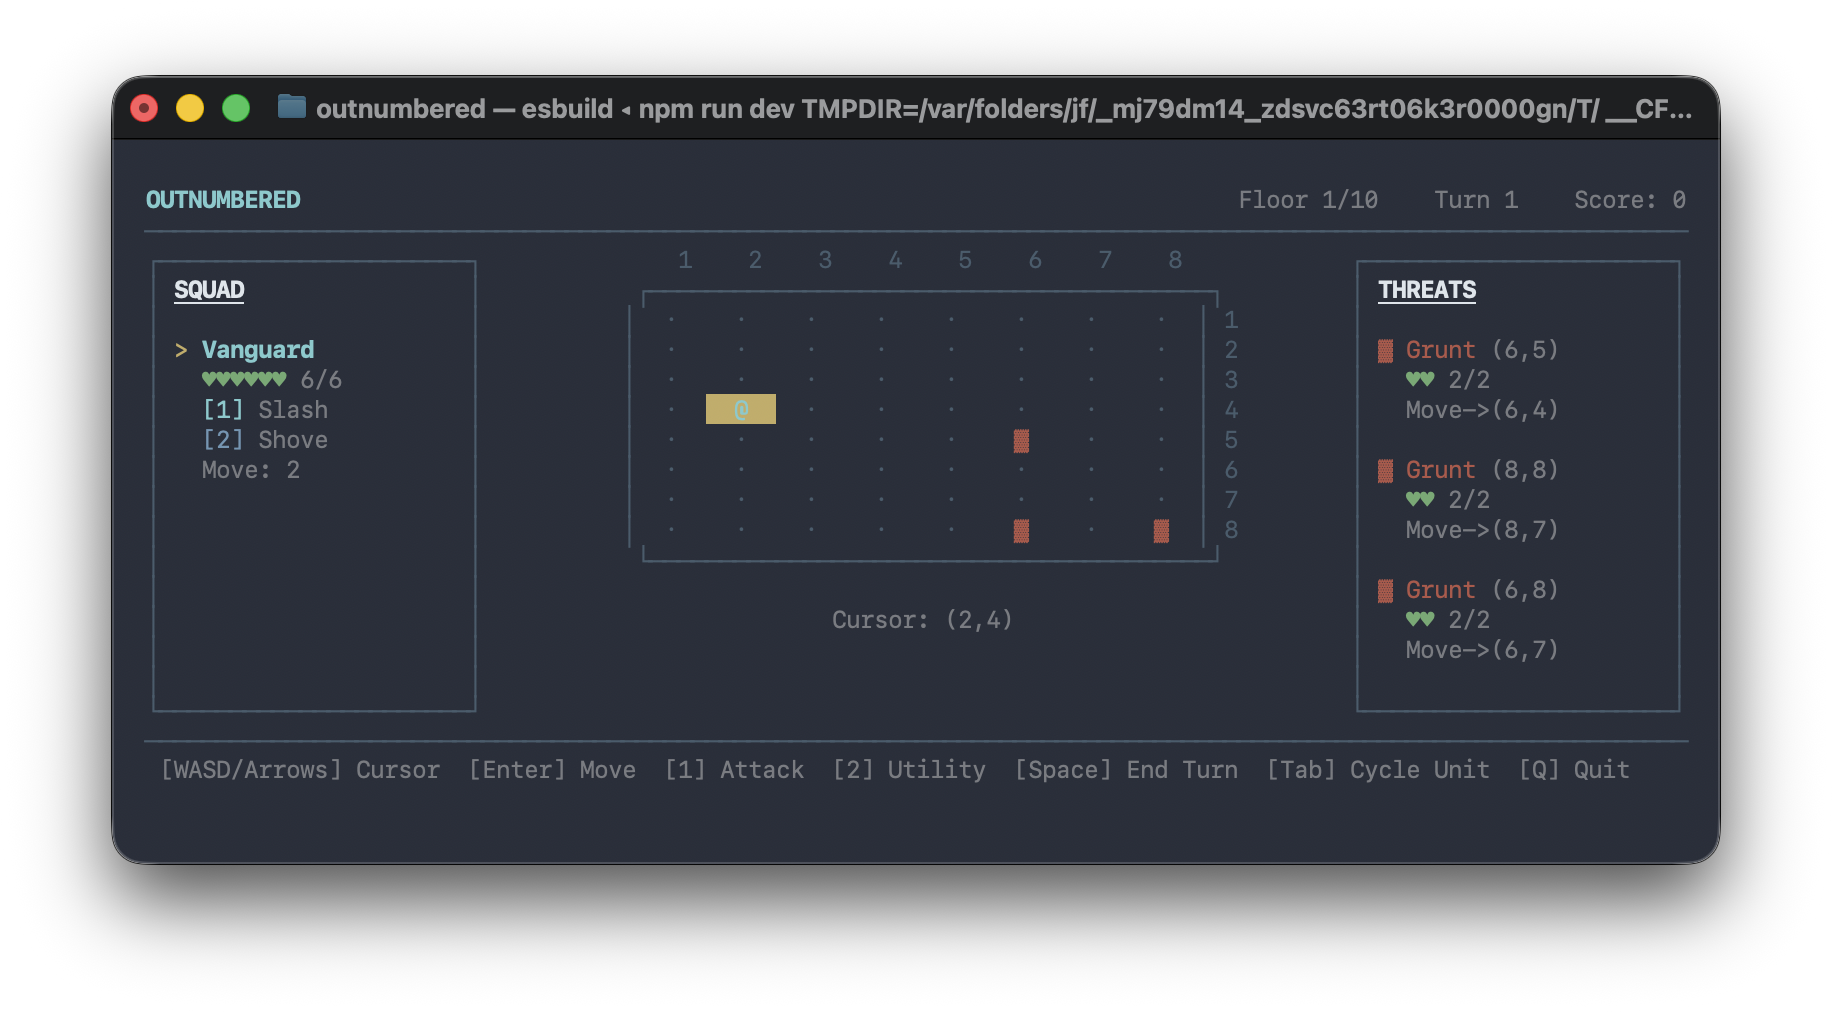
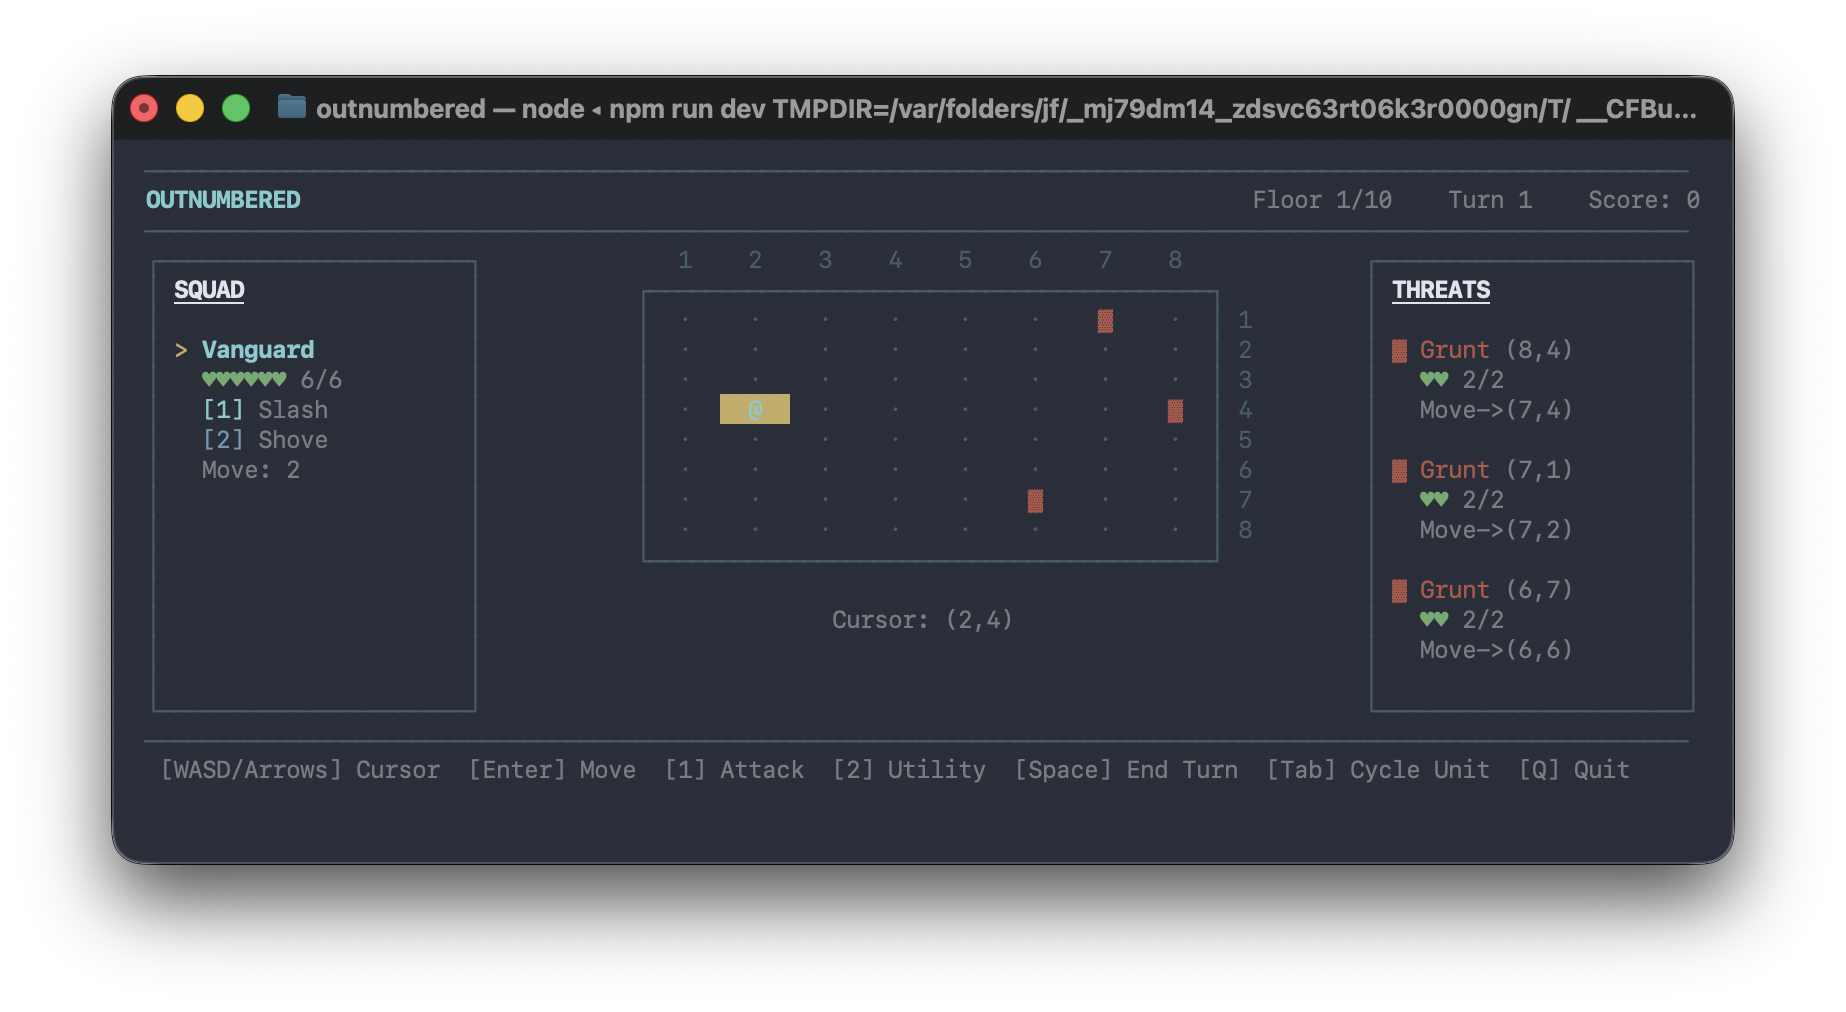
bugfix: fix grid border alignment with row numbers

diff --git a/src/ui/grid-panel.tsx b/src/ui/grid-panel.tsx
@@ -148,20 +148,12 @@ export const GridPanel: React.FC<GridPanelProps> = ({
     <Box flexDirection="column" alignItems="center">
       {/* Column headers */}
       <Box>
-        <Text color="gray">{'   '}</Text>
-        {Array.from({ length: 8 }, (_, i) => (
-          <Text key={i} color="gray">
-            {padCenter(String(i + 1), CELL_WIDTH)}
-          </Text>
-        ))}
-        <Text>{'  '}</Text>
+        <Text color="gray">{`   ${Array.from({ length: 8 }, (_, i) => padCenter(String(i + 1), CELL_WIDTH)).join('')}   `}</Text>
       </Box>
 
       {/* Top border */}
       <Box>
-        <Text color="gray">{'  ┌'}</Text>
-        <Text color="gray">{'─'.repeat(CELL_WIDTH * 8)}</Text>
-        <Text color="gray">{'┐'}</Text>
+        <Text color="gray">{`  ┌${'─'.repeat(CELL_WIDTH * 8)}┐  `}</Text>
       </Box>
 
       {/* Grid rows */}
@@ -174,17 +166,14 @@ export const GridPanel: React.FC<GridPanelProps> = ({
               const col = colIdx + 1;
               return renderCell(col, row);
             })}
-            <Text color="gray">{'│'}</Text>
-            <Text color="gray">{` ${row}`}</Text>
+            <Text color="gray">{`│ ${row}`}</Text>
           </Box>
         );
       })}
 
       {/* Bottom border */}
       <Box>
-        <Text color="gray">{'  └'}</Text>
-        <Text color="gray">{'─'.repeat(CELL_WIDTH * 8)}</Text>
-        <Text color="gray">{'┘'}</Text>
+        <Text color="gray">{`  └${'─'.repeat(CELL_WIDTH * 8)}┘  `}</Text>
       </Box>
     </Box>
   );
